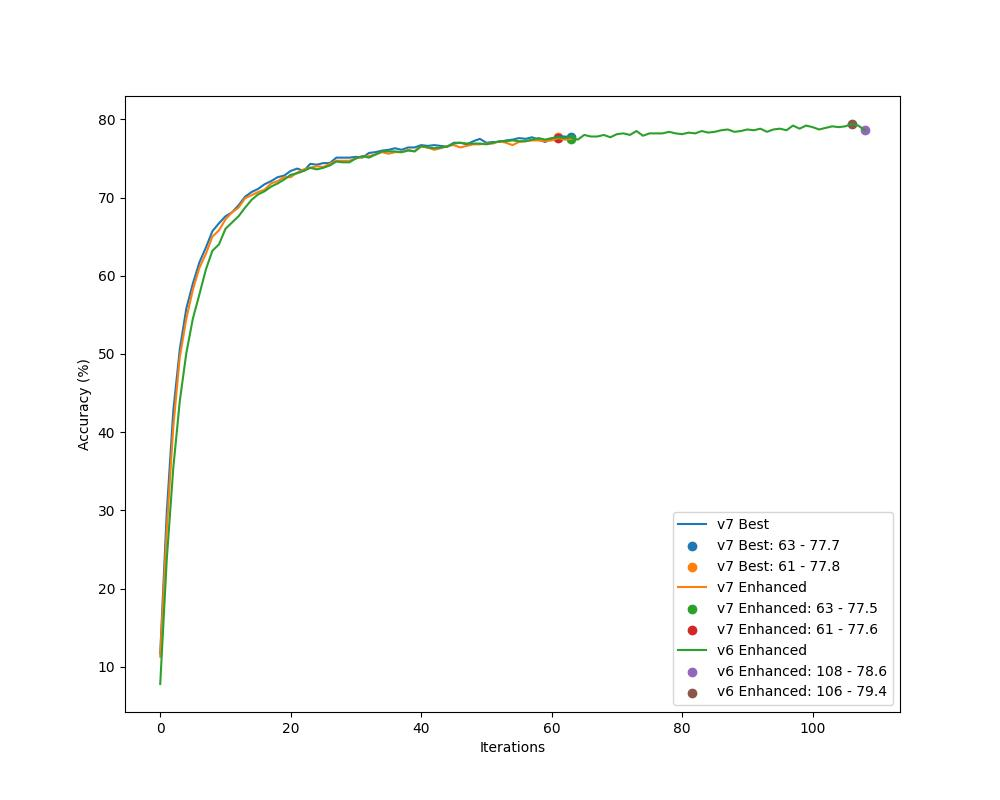
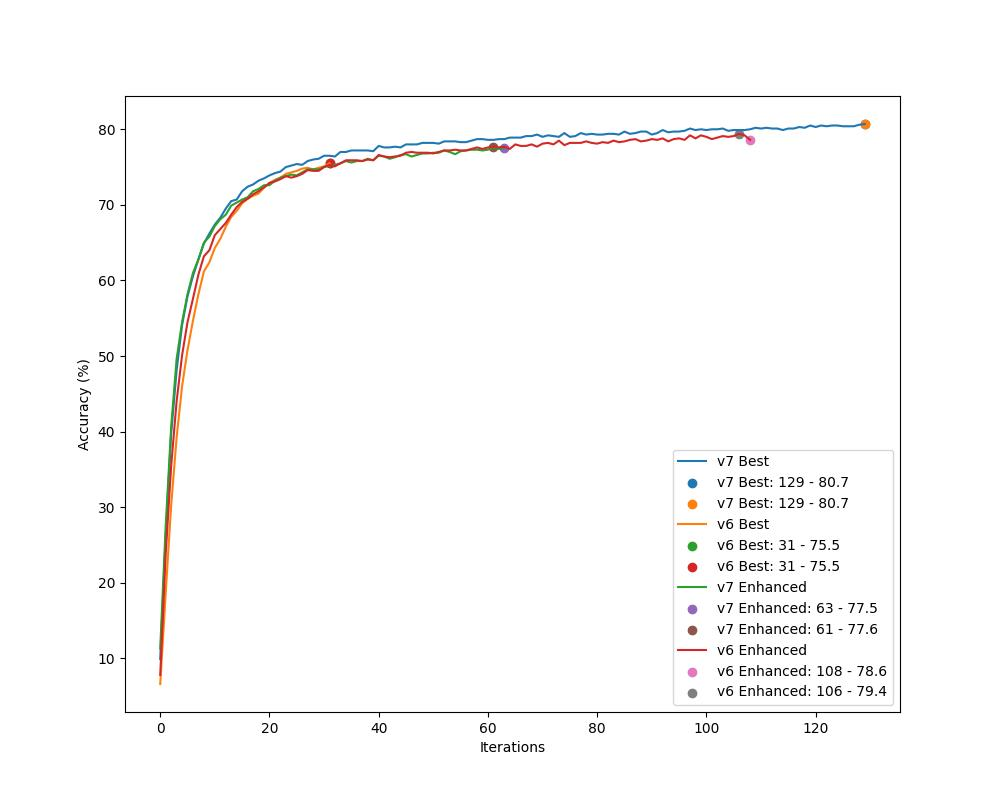
12L-320D

diff --git a/classification/models/vrwkv7.py b/classification/models/vrwkv7.py
@@ -341,6 +341,7 @@ class VRWKV_ChannelMix(BaseModule):
         self.attn_sz = n_embd
         self.n_head = n_head
         self.head_size = self.attn_sz // self.n_head
+        print(f'{self.attn_sz = }, {self.n_head = }')
         assert self.head_size == HEAD_SIZE
         self.with_cp = with_cp
         self._init_weights(init_mode)
@@ -470,7 +471,6 @@ class VRWKV7(BaseBackbone):
                 #  out_indices=-1,
                  drop_rate=0.,
                  embed_dims=192,
-                 num_heads=3,
                  depth=12,
                  drop_path_rate=0.,
                  shift_pixel=1,
@@ -493,6 +493,9 @@ class VRWKV7(BaseBackbone):
         self.num_extra_tokens = 0
         self.num_layers = len(depth)
         self.drop_path_rate = drop_path_rate
+
+        num_heads = embed_dims // HEAD_SIZE
+
         # if isinstance(dims, int):
         #     dims = [int(dims * 2 ** i_layer) for i_layer in range(self.num_layers)]
         # self.num_features = dims[-1]
@@ -593,7 +596,7 @@ class VRWKV7(BaseBackbone):
         B = x.shape[0]
         x, patch_resolution = self.patch_embed(x)
 
-        random.shuffle(self.scan_method)
+        # self.scan_method = list(reversed(self.scan_method))
 
         x = x + resize_pos_embed(
             self.pos_embed,

diff --git a/classification/models/vrwkv6.py b/classification/models/vrwkv6.py
@@ -422,7 +422,6 @@ class VRWKV6(BaseBackbone):
                 #  out_indices=-1,
                  drop_rate=0.,
                  embed_dims=192,
-                 num_heads=3,
                  depth=12,
                  drop_path_rate=0.,
                  shift_pixel=1,
@@ -445,6 +444,9 @@ class VRWKV6(BaseBackbone):
         self.num_extra_tokens = 0
         self.num_layers = len(depth)
         self.drop_path_rate = drop_path_rate
+
+        num_heads = embed_dims // HEAD_SIZE
+
         # if isinstance(dims, int):
         #     dims = [int(dims * 2 ** i_layer) for i_layer in range(self.num_layers)]
         # self.num_features = dims[-1]

diff --git a/classification/graph.py b/classification/graph.py
@@ -28,6 +28,7 @@ def main():
     # process_logfile(filename="log.txt.5", name="v7 Uni-Shift")
     # process_logfile(filename="log.txt.6", name="v6")
     process_logfile(filename="log.txt.9", name="v7 Best")
+    process_logfile(filename="log.txt.10", name="v6 Best")
     process_logfile(filename="log.txt.7", name="v7 Enhanced")
     process_logfile(filename="log.txt.8", name="v6 Enhanced")
     plt.legend()

diff --git a/classification/models/__init__.py b/classification/models/__init__.py
@@ -53,7 +53,7 @@ def build_vrwkv6_model(config, **kwargs):
         in_channels=config.MODEL.VSSM.IN_CHANS,
         drop_path_rate=config.MODEL.DROP_PATH_RATE,
         embed_dims=config.MODEL.VSSM.EMBED_DIM,
-        num_heads=16,
+        # num_heads=16,
         num_classes=config.MODEL.NUM_CLASSES,
         depth=config.MODEL.VSSM.DEPTHS,
         norm_layer=config.MODEL.VSSM.NORM_LAYER,
